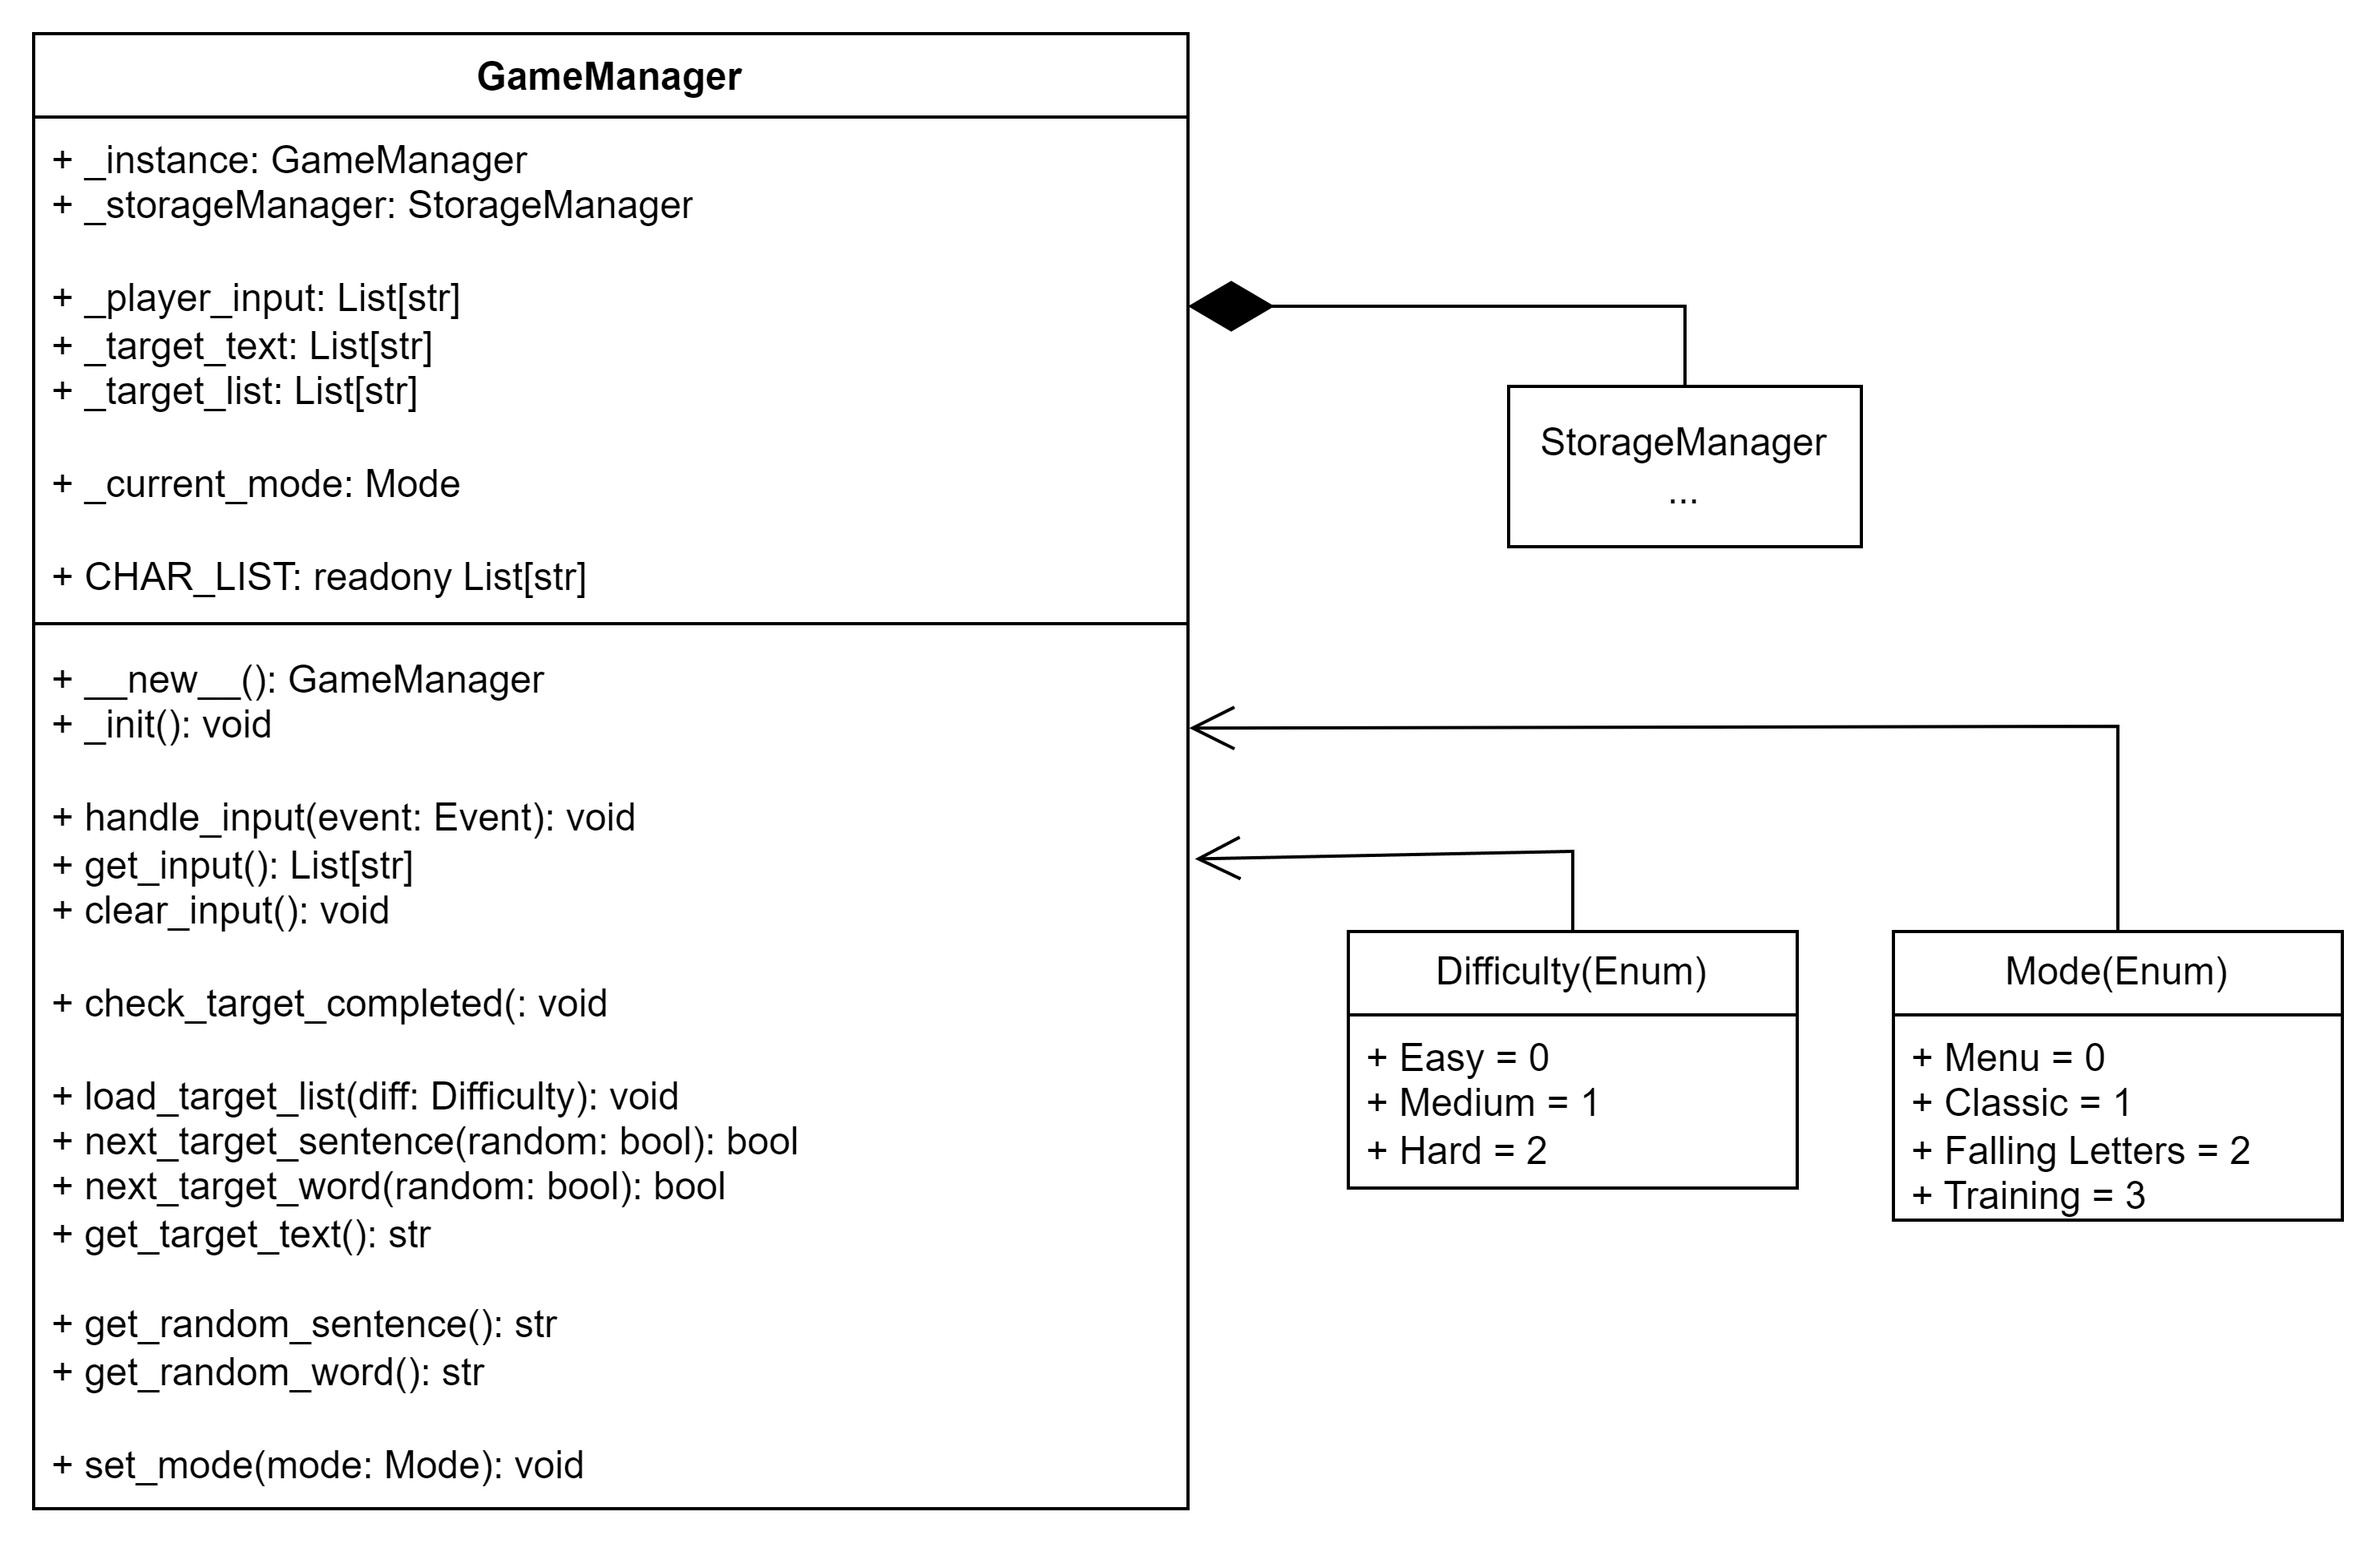
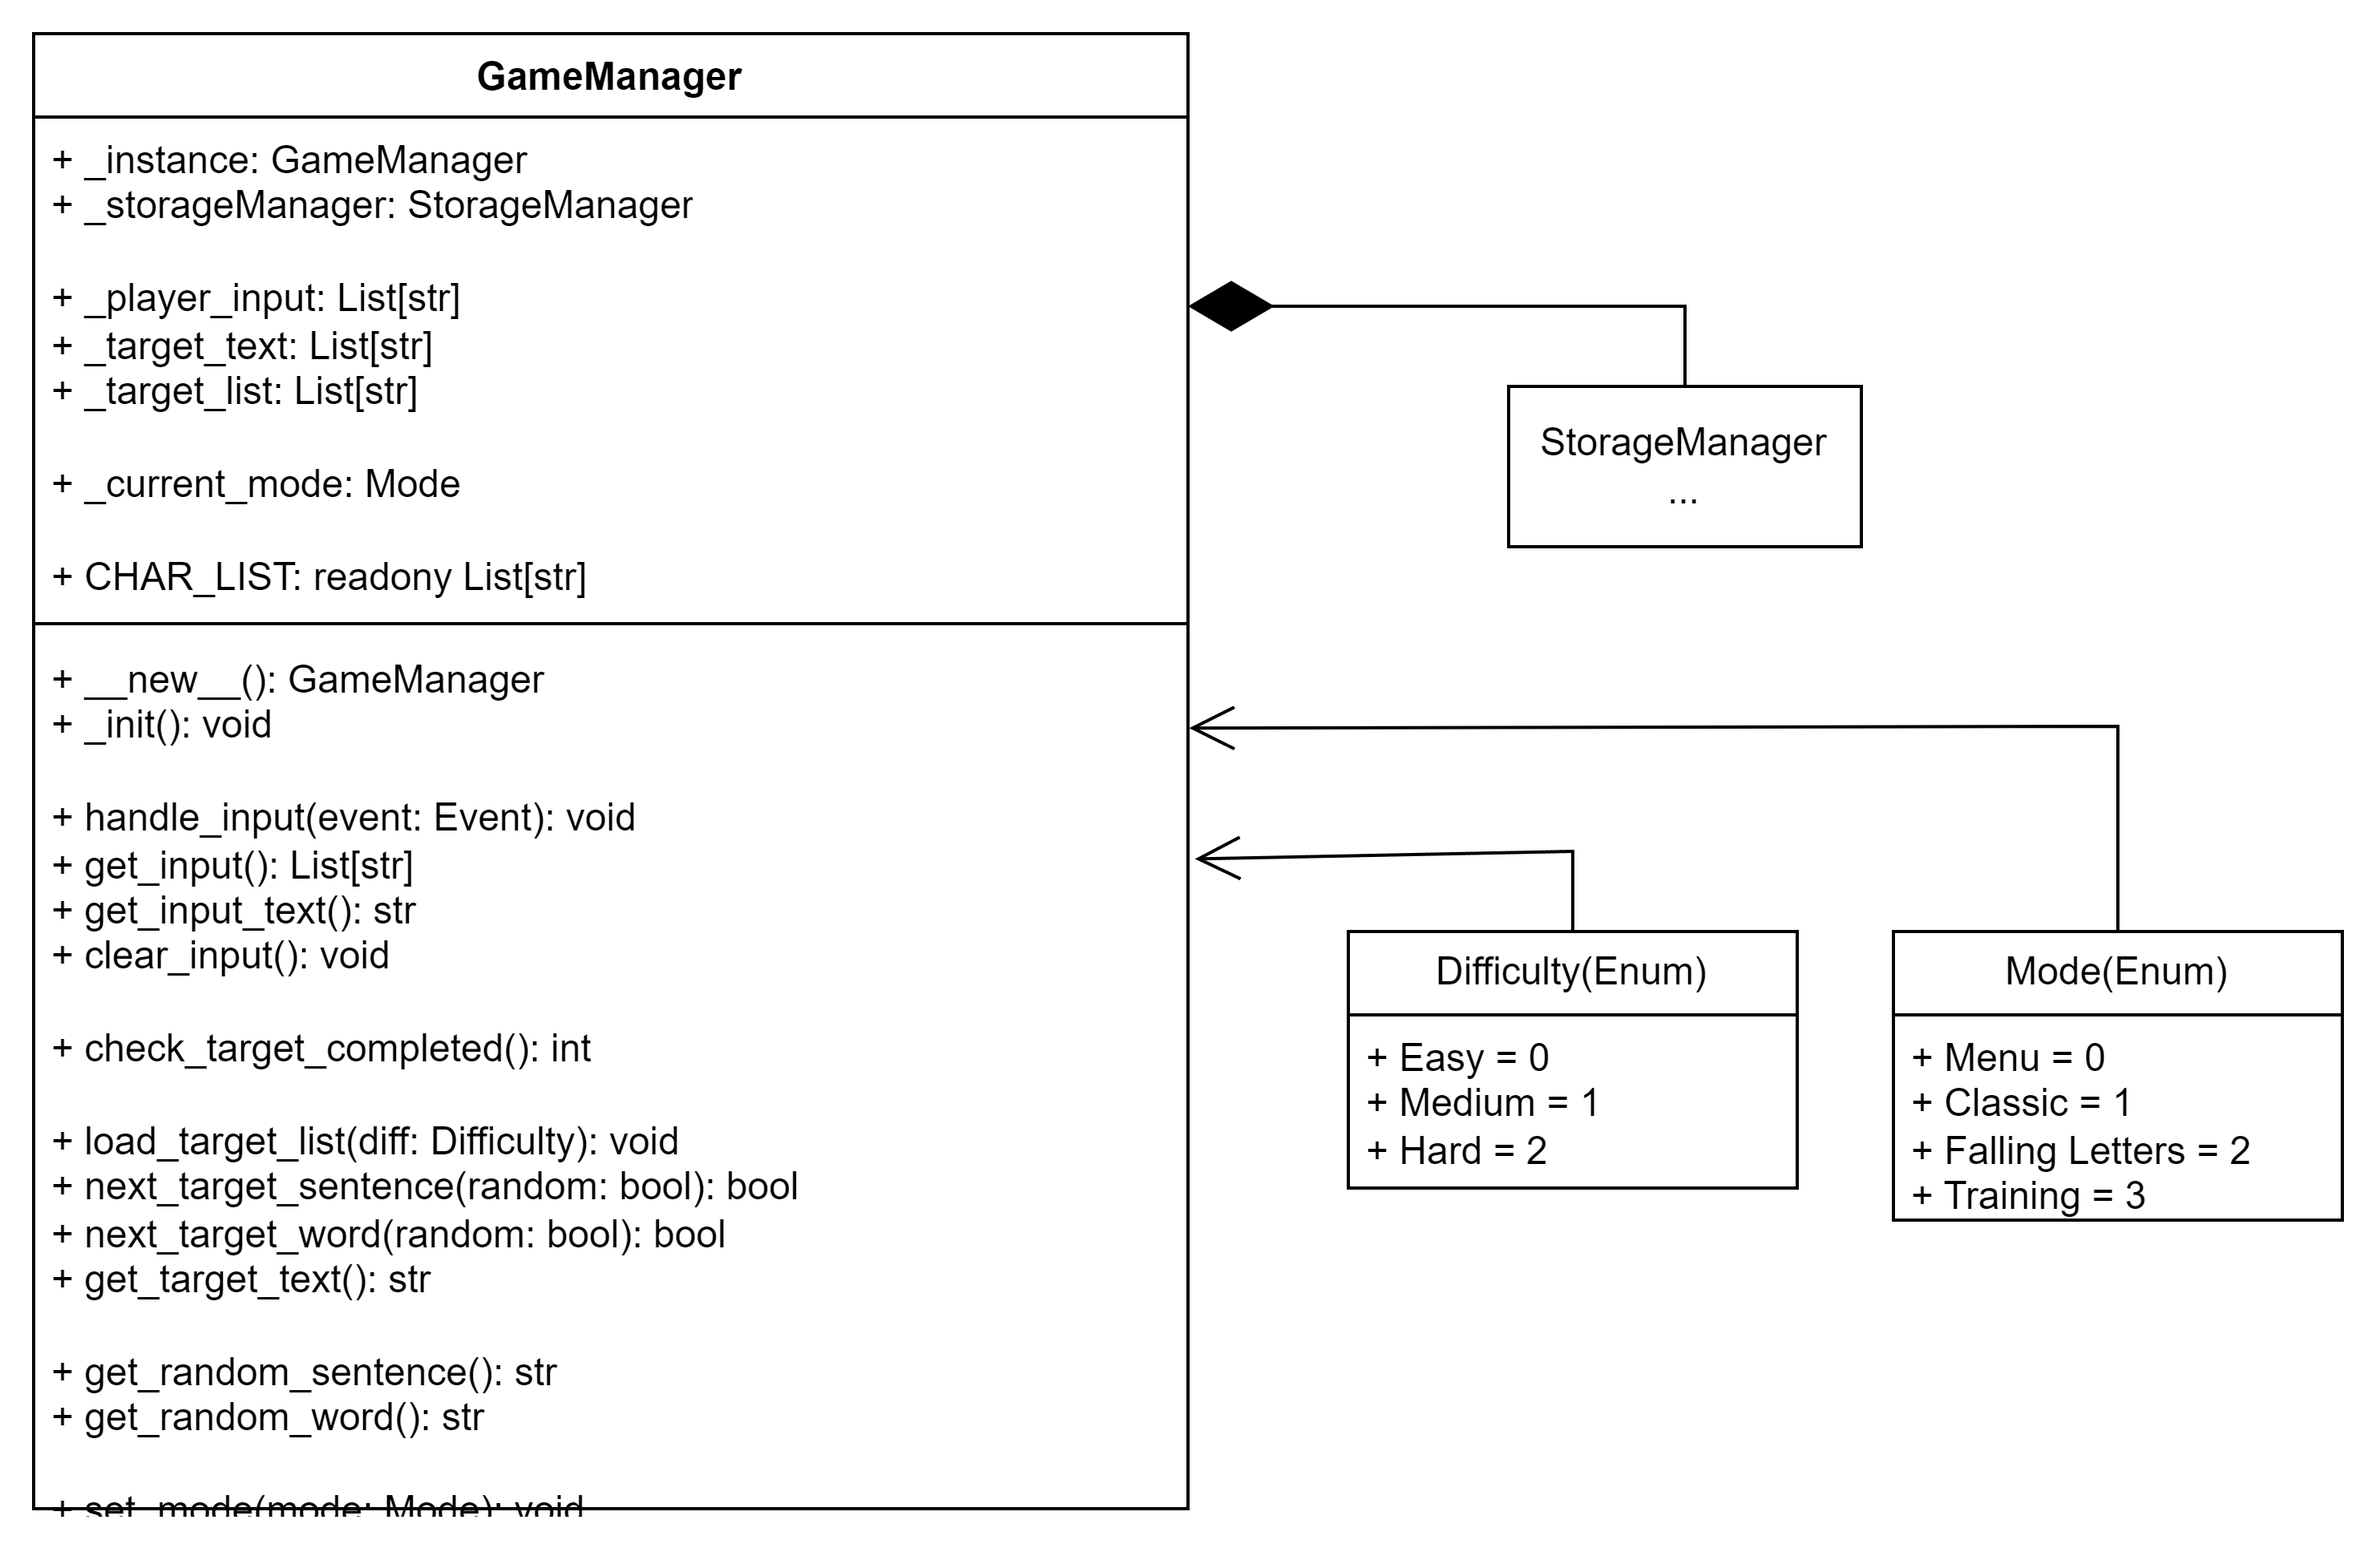
Updated UML due to some GameManager changes

Changed region(s): [[0.031, 0.5579, 0.3414, 0.9917]]

diff --git a/docs/UML/GameManager.md b/docs/UML/GameManager.md
@@ -2,8 +2,8 @@
 
 ## GameManager
 
-[!TIP]
-target = zdanie/słowo do wpisania
+>[!TIP]
+>target = zdanie/słowo do wpisania
 
 \_\_new__() - tworzy singleton i wywołuje konstruktor
 
@@ -13,9 +13,11 @@ handle_inptut() - odczytuje wpisany teks z otrzymanego eventu i dodaje go do zmi
 
 get_input() - zwraca zawartość zmiennej _player_input
 
+get_input_text() - zwraca wpisany tekst jako pojedynczy string
+
 clear_input() - usuwa dane przechowywane w zmiennej _player_input
 
-check_target_completed() - sprawdza czy wpisane przez gracza słowo zgadza się z ze słowem target, jeżeli tak to czyści input i wczytuje nowy target (dodaje punkty ?)
+check_target_completed() - sprawdza czy wpisane przez gracza słowo zgadza się z ze słowem target, jeżeli tak to czyści input i wczytuje nowy target (dodaje punkty ?), zwraca liczbę poprawnie wpisanych znaków
 
 load_target_list() - wczytuje listę słów do wpisywania
 
@@ -27,8 +29,8 @@ get_random_sentence() - zwraca losowe zdanie z _target_list
 
 get_random_word() - zwraca losowe słowo z _target_list
 
-[!IMPORTANT]
-Metody get_random_... nie usuwają zdania/słowa z puli targetów
+>[!IMPORTANT]
+>Metody get_random_... nie usuwają zdania/słowa z puli targetów
 
 set_mode() - ustawia aktualny tryb gry od którego zależeć będzie funkcjonalność większości metod 
 
